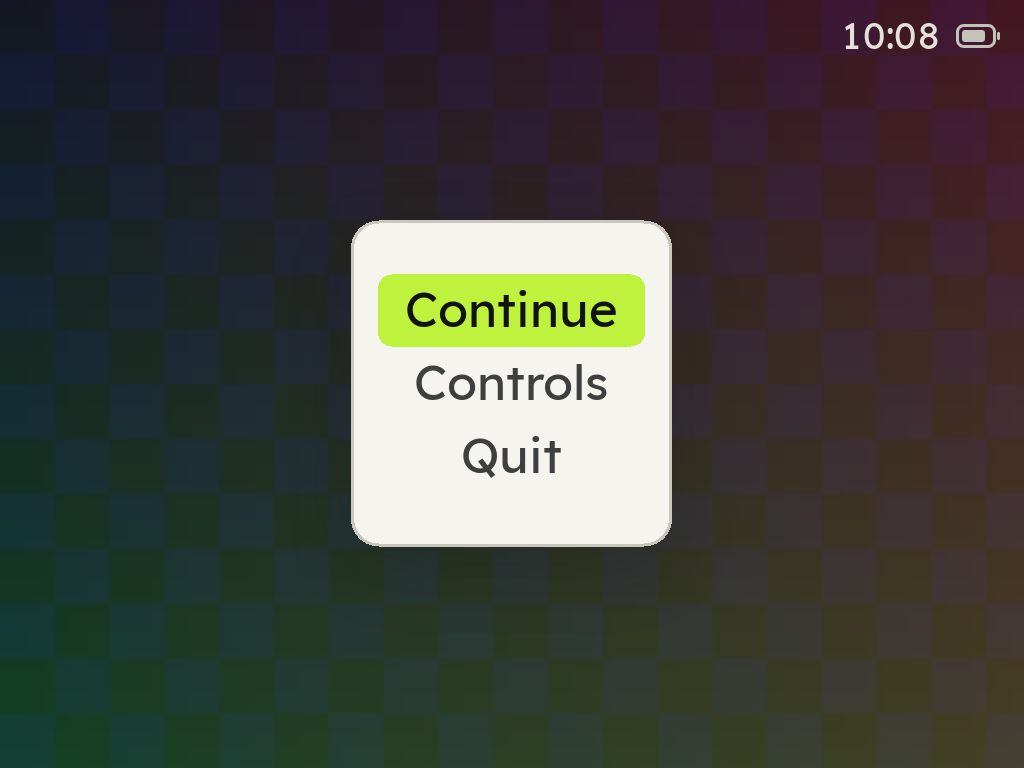
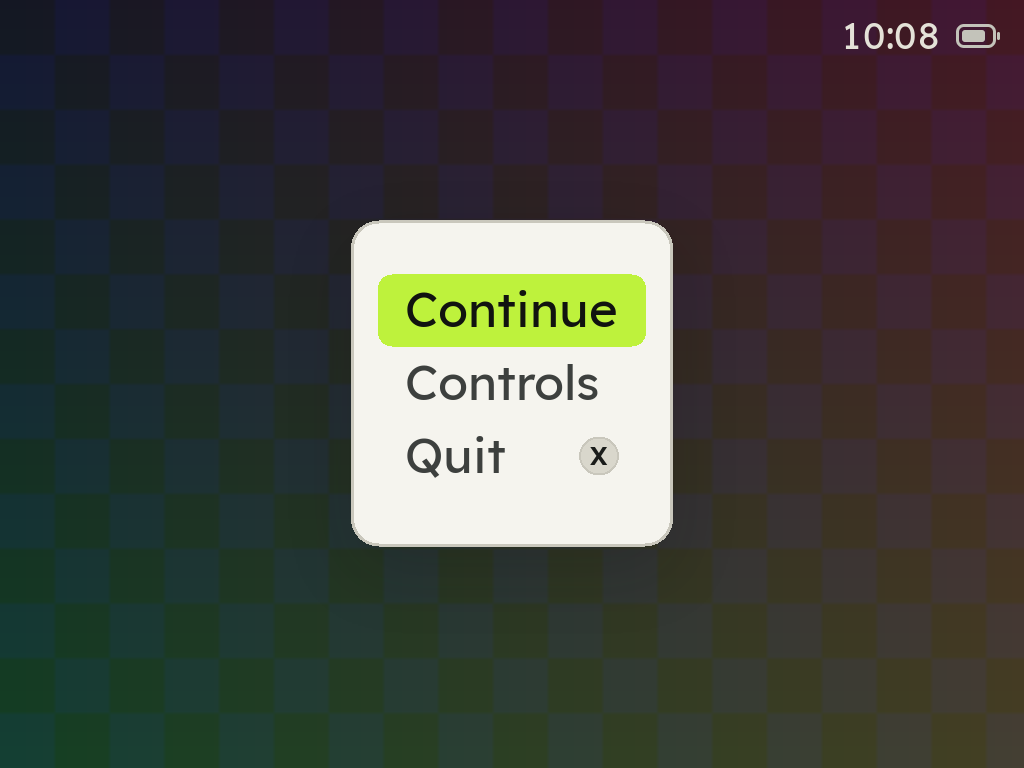
In-game menu: X quits from any row, and the Quit row shows X's glyph
Every in-game menu ZyperOS draws (over a Diatom game, a run: program or a
port, and PortMaster) takes X anywhere on its page as A on Quit, with the
accept sound. Quit's row carries X's button glyph at its right (MENU_KEY_X,
drawn plain off the fill and on-accent on it). The Controls pages' In a game
rows say it as "MENU, X  Quit". README, the guide, DESIGN.md 11.9 and 11.28,
and the OpenBOR and ports menu shots follow.

Changed region(s): [[0.375, 0.5625, 0.625, 0.625], [0.375, 0.4688, 0.5938, 0.5312]]

diff --git a/src/main.c b/src/main.c
@@ -4516,6 +4516,19 @@ static int menu_row_h(void) { return ui_font_line(UI_F_MENU) * 3 / 2; }
  * unless both use the same number. */
 static int menu_pad(void)   { return menu_row_h() * 3 / 4; }
 
+/* X's glyph at a row's right (MENU_KEY_X): the keyboard's action keys' 40,
+ * DESIGN.md 11.9, which sits in a menu row as a hint's sits in its legend */
+#define MENU_KEY_SIZE 40
+
+/* What a row's value takes at the right of the rows, for the measures:
+ * its text, a tick (MENU_TICK) or X's glyph (MENU_KEY_X) */
+static int menu_value_w(TTF_Font *fm, const char *v)
+{
+	if (v == MENU_TICK) return ui_cap_height(fm) * 6 / 5;
+	if (v == MENU_KEY_X) return ui_button_width("X", MENU_KEY_SIZE);
+	return v ? ui_text_width(fm, v) : 0;
+}
+
 /* The air between the panel and the screen edge, on every side. */
 #define MENU_MARGIN 24
 /* ...but the top, where the status corner stands (DESIGN.md 11.12) on every
@@ -4797,8 +4810,7 @@ static void menu_panel(app *a, const char *heading, const menu_row *rows,
 		if (!rows[i].label) continue;          /* a rule measures nothing */
 		w = ui_text_width(fm, rows[i].label);
 		if (two_col && rows[i].value && !ROW_IS_NOTE(rows[i]))
-			w += gap + ui_text_width(fm, rows[i].value);
-		if (rows[i].value == MENU_TICK) w += ui_cap_height(fm) * 6 / 5;
+			w += gap + menu_value_w(fm, rows[i].value);
 		if (w > content_w) content_w = w;
 	}
 	if (head2) {
@@ -5363,7 +5375,7 @@ static void menu_panel(app *a, const char *heading, const menu_row *rows,
 				content_w -= isz + pad / 2;
 			}
 			int lw = ui_text_width(fm, rows[i].label);
-			int vw = rows[i].value ? ui_text_width(fm, rows[i].value) : 0;
+			int vw = menu_value_w(fm, rows[i].value);
 			int room;
 
 			/* WHICHEVER IS LONGER IS THE CONTENT, and the content is what
@@ -5396,7 +5408,16 @@ static void menu_panel(app *a, const char *heading, const menu_row *rows,
 			 * on whether the player had earned it. */
 			bool moves = menu_row_moves(rows[i], i == sel, visits_all);
 
-			if (lw + (vw ? gap + vw : 0) <= content_w) {
+			/* X's glyph where the value goes, on the fill as a selected
+			 * key's (UI_BUTTON_ON_ACCENT) once the plate is mostly there,
+			 * and the label given what is left */
+			if (rows[i].value == MENU_KEY_X) {
+				ui_button(a->r, "X", content_x + content_w - vw / 2,
+				          y + ROW_H(rows[i]) / 2, MENU_KEY_SIZE,
+				          sel_w >= 0.5f ? UI_BUTTON_ON_ACCENT : UI_BUTTON_PLAIN);
+				ui_fit_text(fm, rows[i].label, lbl, sizeof lbl, content_w - vw - gap);
+				ui_text(a->r, fm, lbl, content_x, ty, -1, lc);
+			} else if (lw + (vw ? gap + vw : 0) <= content_w) {
 				ui_fit_text(fm, rows[i].label, lbl, sizeof lbl, content_w);
 				ui_text(a->r, fm, lbl, content_x, ty, -1, lc);
 				if (rows[i].value)
@@ -11196,7 +11217,7 @@ static int menu_measure(const menu_row *rows, int n, const char *heading)
 		if (!rows[i].label) continue;          /* a rule measures nothing */
 		rw = ui_text_width(fm, rows[i].label);
 		if (two_col && rows[i].value && !ROW_IS_NOTE(rows[i]))
-			rw += gap + ui_text_width(fm, rows[i].value);
+			rw += gap + menu_value_w(fm, rows[i].value);
 		if (rw > w) w = rw;
 	}
 	if (heading) {
@@ -16667,6 +16688,13 @@ static menu_result gm_key(app *a, void *ctx, in_button key, int sel)
 		gm_gather(a, &u);
 		n = gm_row_ids(&u, ids);
 		sel = sel >= 0 && sel < n ? (int)ids[sel] : GM_MAX_ROWS;
+	}
+	/* X, wherever the cursor is: what A on its row does (gm_x_row), heard
+	 * as A there is, since the runner plays accept for A alone */
+	if (key == IN_X) {
+		uisound_play(DS_SOUND_ACCEPT);
+		sel = gm_x_row();
+		key = IN_ACCEPT;
 	}
 	if ((sel == GM_SCREENS || sel == GM_SWAP || sel == GM_STYLUS) &&
 	    (key == IN_LEFT || key == IN_RIGHT || key == IN_ACCEPT)) {

diff --git a/src/controls.c b/src/controls.c
@@ -21,6 +21,10 @@ void ctl_set_battery_lights(bool on) { battery_lights = on; }
 static menu_row row_menu(void)   { return (menu_row){ "MENU", T(S_CONTROLS_INGAME_MENU), false }; }
 static menu_row row_mp4(void)    { return (menu_row){ "SELECT", T(S_CONTROLS_MP4_MENU), false }; }
 static menu_row row_save_off(void) { return (menu_row){ "POWER", T(S_CONTROLS_SAVE_OFF), false }; }
+/* X in the in-game menu, from any row: its Quit, whose row draws X's glyph
+ * (src/game_menu.h, gm_x_row). MENU then X, a comma for one after the
+ * other, as a plus is for held together; the value is the row's own name. */
+static menu_row row_quit(void)   { return (menu_row){ "MENU, X", T(S_GAMEMENU_QUIT), false }; }
 static menu_row row_volume(void)
 {
 	return (menu_row){ T(S_CONTROLS_KEY_VOLUME), T(S_CONTROLS_SOUND), false };
@@ -103,6 +107,7 @@ static int game(menu_row *out)
 	 * SELECT+L2, on the Hotkeys page after this one. Eric's wording,
 	 * 2026-10-01, SELECT's with it. */
 	out[n++] = row_menu();
+	out[n++] = row_quit();
 	out[n++] = row_mp4();
 	/* X and Y are Diatom's turbo on the nine two-button systems; L2 and R2
 	 * are mGBA's own Turbo L and R, which work on GBA and do nothing on GB and
@@ -932,6 +937,7 @@ static int in_a_game(menu_row *out)
 	/* SELECT is the game's own in a game; MP4 is in the menu this page is
 	 * read from, which says so on the home's In a game page */
 	out[n++] = row_menu();
+	out[n++] = row_quit();
 	out[n++] = row_volume();
 	out[n++] = row_brightness();
 	out[n++] = row_save_off();
@@ -948,6 +954,7 @@ static int in_a_port(const ctl_game *g, menu_row *out)
 	int n = 0;
 
 	out[n++] = (menu_row){ "MENU", T(S_CONTROLS_MENU_PORT), false };
+	out[n++] = row_quit();
 	if (g->doc && g->doc->gptokeyb && !g->doc->portmaster)
 		out[n++] = (menu_row){ "SELECT+START", T(S_CONTROLS_QUIT_GAME), false };
 	out[n++] = row_volume();

diff --git a/tools/menu-check.c b/tools/menu-check.c
@@ -1428,6 +1428,13 @@ static void ingame_rows(void)
 	ck(rows[GM_CHEEVOS].live, "and is reachable");
 	k = reachable(rows, n, got, GM_ROWS);
 	ck(k == GM_ROWS, "every row is a stop");
+	/* X from anywhere on the page is Quit (2026-11-08), and Quit alone
+	 * carries X's glyph to say so */
+	ck(gm_x_row() == GM_QUIT && rows[GM_QUIT].value == MENU_KEY_X,
+	   "X is Quit's, and Quit draws X's glyph");
+	for (k = 0; k < n; k++)
+		if (k != GM_QUIT && rows[k].value == MENU_KEY_X) break;
+	ck(k == n, "and no other row does");
 
 	/* Over a port (OpenBOR, src/portmenu.h): what a stopped program can
 	 * still be asked, every one a stop, in the game menu's order */
@@ -1438,6 +1445,8 @@ static void ingame_rows(void)
 	   ids[2] == GM_QUIT, "Continue, Controls and Quit");
 	ck(!strcmp(rows[0].label, "Continue") && !strcmp(rows[1].label, "Controls") &&
 	   !strcmp(rows[2].label, "Quit"), "labeled as over a game");
+	ck(rows[2].value == MENU_KEY_X && gm_row_at(&u, gm_x_row()) == 2,
+	   "X is its Quit too, with the glyph");
 	ck(reachable(rows, n, got, GM_ROWS) == 3, "every row a stop");
 	u.port = false;
 

diff --git a/tools/controls-check.c b/tools/controls-check.c
@@ -586,9 +586,11 @@ static void in_a_game(void)
 		ck(says(all, n, "MENU", "Menu") && says(all, n, "POWER", "Quit and turn off") &&
 		   !says(all, n, "POWER", "Save and turn off"),
 		   "OpenBOR's In a game: MENU the menu, POWER quits and turns off");
+		ck(says(all, n, "MENU, X", "Quit"), "and X in the menu is its Quit");
 		g.port = false;
 		n = game_rows(&g, all, 64, NULL);
 		ck(says(all, n, "POWER", "Save and turn off"), "a Diatom game's POWER saves");
+		ck(says(all, n, "MENU, X", "Quit"), "a Diatom game's X in the menu is Quit too");
 	}
 	/* The standalone Flycast under the menu: its buttons are its own
 	 * settings', so In a game alone, with no hotkeys */
@@ -626,7 +628,7 @@ static void in_a_game(void)
 		ck(n == 4 && !strcmp(b.head, "Controls: Hotkeys"),
 		   "Hotkeys first: quick save and load, faster and slower, no SELECT note");
 		n = ctl_game_rows(&g, 1, rows, &b);
-		ck(n == 4 && !strcmp(b.head, "Controls: In a game"),
+		ck(n == 5 && !strcmp(b.head, "Controls: In a game"),
 		   "and In a game has no footer to turn");
 	}
 }

diff --git a/src/game_menu.h b/src/game_menu.h
@@ -190,6 +190,13 @@ typedef struct {
 int gm_row_ids(const gm_ui *u, gm_row *ids);
 /* Where row `id` is in that list, or -1 when the menu has none */
 int gm_row_at(const gm_ui *u, gm_row id);
+/* The row X does from anywhere on the menu's page, as A on it does: Quit,
+ * in every in-game menu (a game's, a port's, PortMaster's), so leaving a
+ * game is one press and not a walk to the last row. Its row carries X's
+ * glyph at the right (MENU_KEY_X) to teach it. Quit asks nothing first,
+ * so neither does X. No row of the page answered X before
+ * (2026-11-08). */
+gm_row gm_x_row(void);
 
 /* Where the Cheevos row's text lives; the caller owns it, because a row holds
  * a pointer rather than a copy. And each row's sound class (MENU_SND_*,

diff --git a/src/menu.h b/src/menu.h
@@ -21,6 +21,12 @@ typedef struct {
  * address, which src/menusnap.c keeps as it is. */
 extern const char MENU_TICK[];
 
+/* A value that is X's glyph at the row's right (DESIGN.md 11.9, the glyph the
+ * hints draw), on the fill as a selected key's: X does what the row does
+ * from anywhere on its page, and the glyph teaches it. The in-game menu's
+ * Quit (11.28). Known by its address, as MENU_TICK is. */
+extern const char MENU_KEY_X[];
+
 /* How a row answers left, right and A (DESIGN.md 9). The menu runner plays
  * the sound on the press, before the screen's handler: a handler may take a
  * while - the in-game menu's Display waits up to 150 ms on Diatom's new

diff --git a/src/game_menu.c b/src/game_menu.c
@@ -184,6 +184,11 @@ int gm_row_ids(const gm_ui *u, gm_row *ids)
 	return n;
 }
 
+gm_row gm_x_row(void)
+{
+	return GM_QUIT;
+}
+
 int gm_row_at(const gm_ui *u, gm_row id)
 {
 	gm_row ids[GM_MAX_ROWS];
@@ -227,6 +232,8 @@ int gm_rows(const gm_ui *u, menu_row *out, gm_bufs *b)
 	full[GM_SWAP].value    = u->swap ? T(S_MENU_ON) : T(S_MENU_OFF);
 	full[GM_STYLUS].value  = u->stylus ? T(S_MENU_ON) : T(S_MENU_OFF);
 	full[GM_PAK].value     = u->pak;
+	/* X quits from anywhere on the page (gm_x_row), and Quit says so */
+	full[GM_QUIT].value    = MENU_KEY_X;
 
 	n = gm_row_ids(u, ids);
 	for (i = 0; i < n; i++) {

diff --git a/tools/legend.h b/tools/legend.h
@@ -17,6 +17,8 @@ static const char *const BUTTONS[] = {
 	"Up/Down", "Left/Right", "A", "B", "X", "Y", "L1/R1", "L2/R2", "X/Y/L2/R2",
 	"MENU", "SELECT", "POWER", "Volume rocker", "F1/F2",
 	"MENU+VOL", "L2+R2",
+	/* One after the other: X in the in-game menu, its Quit (2026-11-08) */
+	"MENU, X",
 	/* The hotkeys in a game: SELECT held and a shoulder (2026-11-07) */
 	"SELECT+R1", "SELECT+L1", "SELECT+R2", "SELECT+L2",
 };

diff --git a/src/menusnap.c b/src/menusnap.c
@@ -10,7 +10,8 @@ static const char *keep(menu_snap *s, const char *t)
 	size_t len;
 	char *d;
 
-	if (!t || t == MENU_NOTE_MARK || t == MENU_BODY_MARK || t == MENU_HR_MARK || t == MENU_TICK)
+	if (!t || t == MENU_NOTE_MARK || t == MENU_BODY_MARK || t == MENU_HR_MARK || t == MENU_TICK ||
+	    t == MENU_KEY_X)
 		return t;
 	len = strlen(t) + 1;
 	if (len > sizeof s->text - s->used) { s->ok = false; return NULL; }

diff --git a/src/menu.c b/src/menu.c
@@ -3,6 +3,7 @@
 #include "menu.h"
 
 const char MENU_TICK[] = "";
+const char MENU_KEY_X[] = "";
 
 int menu_step_sel(const menu_row *rows, int n, int sel, int dir)
 {

diff --git a/README.md b/README.md
@@ -230,7 +230,7 @@ ZyperOS has two themes, Beard in light and Salt & Pepper in dark. **MENU > Appea
 
 <img align="right" width="320" src="res/readme/openbor.png" alt="The in-game menu over a paused OpenBOR game: Continue, Controls and Quit">
 
-**OpenBOR games** are modules, one `.pak` file each, run by OpenBOR itself rather than a libretro core. **A** attacks, **B** jumps, **X** is the second attack, **Y** the special, **L1** and **R1** the third and fourth, **START** pauses into OpenBOR's own menu and **SELECT** saves a screenshot. **MENU** pauses the game under ZyperOS's in-game menu, as in any other game: **Continue**, **Controls**, which lists those buttons, and **Quit**, back to the shelf. OpenBOR keeps its own saves and has no save states, so the menu has no Save, Load or Reset. The volume and brightness bars work over it, and **POWER** ends the game and turns the handheld off. A module that came as a folder has to be packed into a `.pak` first. The Pixel 2 only.
+**OpenBOR games** are modules, one `.pak` file each, run by OpenBOR itself rather than a libretro core. **A** attacks, **B** jumps, **X** is the second attack, **Y** the special, **L1** and **R1** the third and fourth, **START** pauses into OpenBOR's own menu and **SELECT** saves a screenshot. **MENU** pauses the game under ZyperOS's in-game menu, as in any other game: **Continue**, **Controls**, which lists those buttons, and **Quit**, back to the shelf (**X** quits from any row). OpenBOR keeps its own saves and has no save states, so the menu has no Save, Load or Reset. The volume and brightness bars work over it, and **POWER** ends the game and turns the handheld off. A module that came as a folder has to be packed into a `.pak` first. The Pixel 2 only.
 
 <br clear="right">
 
@@ -406,7 +406,7 @@ When a port runs, ZyperOS steps aside to give it the memory, puts its own PortMa
 
 <img align="right" width="320" src="res/readme/ports-controls.png" alt="Controls over a port: the d-pad, A, B, X, L1/R1 and START+SELECT as its README says them">
 
-**MENU** over a port, or over PortMaster, pauses it under the in-game menu: **Continue**, **Controls** and **Quit**, back to the Ports shelf. The game stops where it is and nothing you press in the menu reaches it. **Controls** reads the port's own files: what its README says each button does, the keyboard key each button types for it (its gptokeyb keymap), the buttons that work in every port (**MENU**, the volume keys, **MENU + VOL** for brightness, **SELECT + START**, PortMaster's own way to end a port, and **POWER**), and, last, what its PortMaster entry says to copy where. Over PortMaster it lists PortMaster's own buttons: **Up/Down** move, **L1/R1** a page, **A** chooses, **B** goes back, **X** filters the list, **Y** uninstalls a port. **Quit** ends the port, its helpers and the runtime it mounted, then the shelf comes back.
+**MENU** over a port, or over PortMaster, pauses it under the in-game menu: **Continue**, **Controls** and **Quit**, back to the Ports shelf. **X** quits from any row, as in every in-game menu. The game stops where it is and nothing you press in the menu reaches it. **Controls** reads the port's own files: what its README says each button does, the keyboard key each button types for it (its gptokeyb keymap), the buttons that work in every port (**MENU**, **MENU** then **X** to quit, the volume keys, **MENU + VOL** for brightness, **SELECT + START**, PortMaster's own way to end a port, and **POWER**), and, last, what its PortMaster entry says to copy where. Over PortMaster it lists PortMaster's own buttons: **Up/Down** move, **L1/R1** a page, **A** chooses, **B** goes back, **X** filters the list, **Y** uninstalls a port. **Quit** ends the port, its helpers and the runtime it mounted, then the shelf comes back.
 
 <br clear="right">
 
@@ -422,6 +422,7 @@ Everything ZyperOS keeps is on the card, Wi-Fi passwords and Bluetooth pairings 
 |---|---|
 | **A / B** | Choose and back |
 | **MENU** | Settings for whatever you're looking at. In a game: save, load, quit and more |
+| **X** in the in-game menu | Quit, from any row: the Quit row shows the X button |
 | **SELECT** | MP4, the music, audiobook and video player, from anywhere. In MP4, **X** locks the screen and holding **SELECT + START** unlocks it |
 | **Up / Down** | In a menu, move the cursor; it stops at the first and the last row and does not wrap. On a shelf, jump to the next or previous letter. On the home, jump a letter with MENU > System Order on A to Z, three systems with it on release date |
 | **L1 / R1** | Jump three systems on the home, a screenful of games on a shelf |
@@ -430,7 +431,7 @@ Everything ZyperOS keeps is on the card, Wi-Fi passwords and Bluetooth pairings 
 | **SELECT + R2 / L2** | In a game, faster (1.5x, 2x, 3x) and slower, back to normal speed |
 | **X / Y** | In a game, turbo A and B. On the shelf, a game's details (and Delete Game) and favorite |
 | **POWER** | Save and turn off. Over a port, it ends the port first |
-| **MENU** over a port | The in-game menu over it: Continue, Controls, Quit |
+| **MENU** over a port | The in-game menu over it: Continue, Controls, Quit (or **X**) |
 
 The device lists every button under **MENU > Controls**, and in a game, **Controls** in the in-game menu lists what each button does in that game. [The guide](docs/guide.md#controls-and-menus) covers every control, menu and setting in detail.
 

diff --git a/DESIGN.md b/DESIGN.md
@@ -787,6 +787,13 @@ of each half's word, and a 2-unit **edge** line between them. POWER is a
 96-unit circle with the power mark in **text**: a ring of 20 open at the top,
 a stroke of 6 with round ends, and a stroke down into it.
 
+**In a menu row**, a glyph says a button does the row's job from anywhere on
+the page: the row's value is `MENU_KEY_X` (src/menu.h), and the glyph is
+drawn at 40, the keyboard's action keys' size, where the value's right edge
+is, plain off the fill and UI_BUTTON_ON_ACCENT on it. The in-game menu's Quit
+is the one (11.28). "MENU, X" names the press on a Controls page: a comma for
+one press after the other, as a plus is for held together.
+
 A pressed glyph is 92% size, its ring **accent**, with a soft **accent** halo
 (16 units of blur at three quarters), in **press**. A pressed arm of the
 D-pad or half of the rocker fills with **accent** and its arrow or word turns
@@ -1847,6 +1854,15 @@ Continue, Save, Load, Display, Controls, Achievements, Reset, Quit. Eight rows i
 one more than the panel shows, so Quit is under the arrow, one Up from
 Continue, as a DS game's last rows are.
 
+**X is Quit** from any row of the in-game menu's page (gm_x_row,
+src/game_menu.h), in every in-game menu ZyperOS draws: over a Diatom game,
+over a "run:" program or a port, and over PortMaster. It does what A on Quit
+does and is heard as A is; Quit asks nothing first, so neither does X. The
+Quit row carries X's glyph at its right where a value goes (`MENU_KEY_X`,
+11.9), so the menu teaches the button, and the In a game page says it as
+"MENU, X  Quit". No row of the page answered X before. *(2026-11-08: I
+wanted to leave a game without scrolling down to Quit.)*
+
 A opens a read-only page over the paused game, in the standard panel with
 the system's rule color, as MENU > Controls is on the home: Left/Right turns
 the pages and comes round, B goes back to the menu, MENU to the game, and
@@ -1874,7 +1890,7 @@ and nothing else. Which page of how many is at the heading's right, "1 / 3"
   faster and SELECT+L2 slower, and under them "SELECT alone stays the
   game's" where SELECT is one of the system's buttons. The same rows as the
   home's Hotkeys page.
-- **In a game** last: MENU (the menu), the volume
+- **In a game** last: MENU (the menu), MENU then X (Quit), the volume
   rocker, brightness (MENU+VOL on the Pixel 2, F1/F2 on the Brick), POWER.
   The same rows as the home's pages, from one place in src/controls.c.
 - **Buttons that are shapes** are drawn, not named: the PlayStation's cross,
